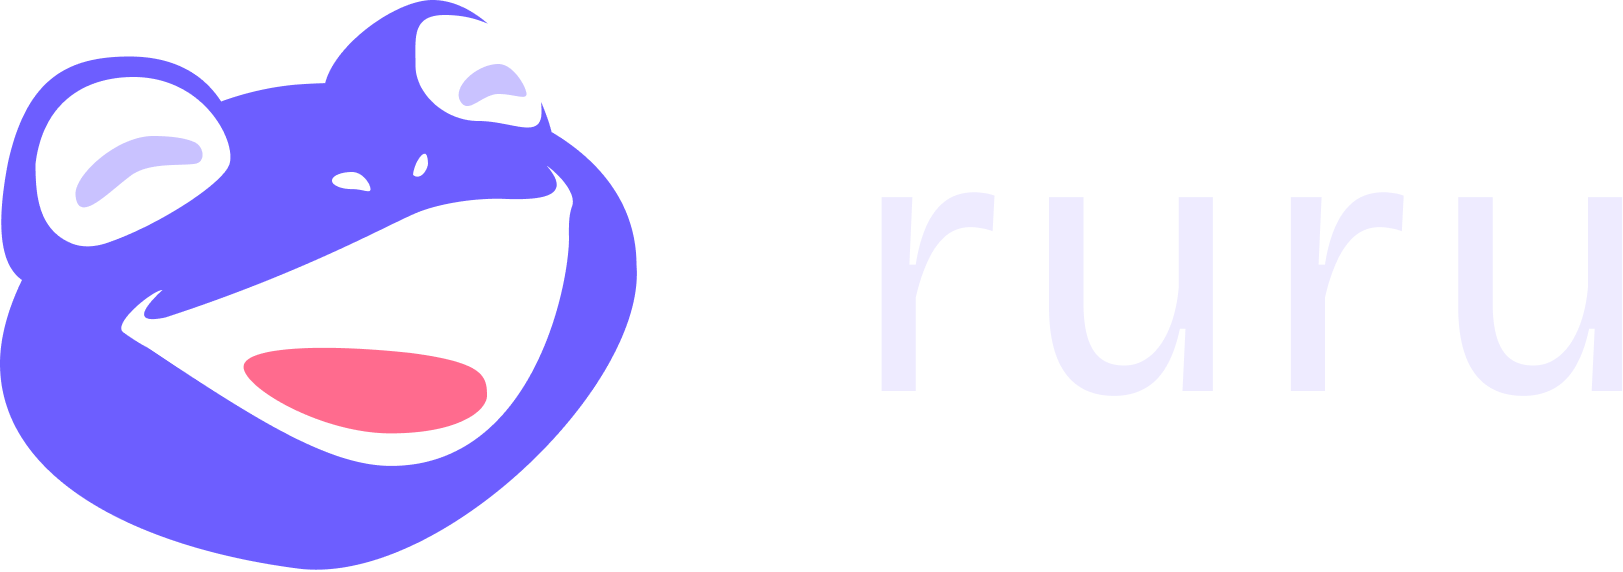
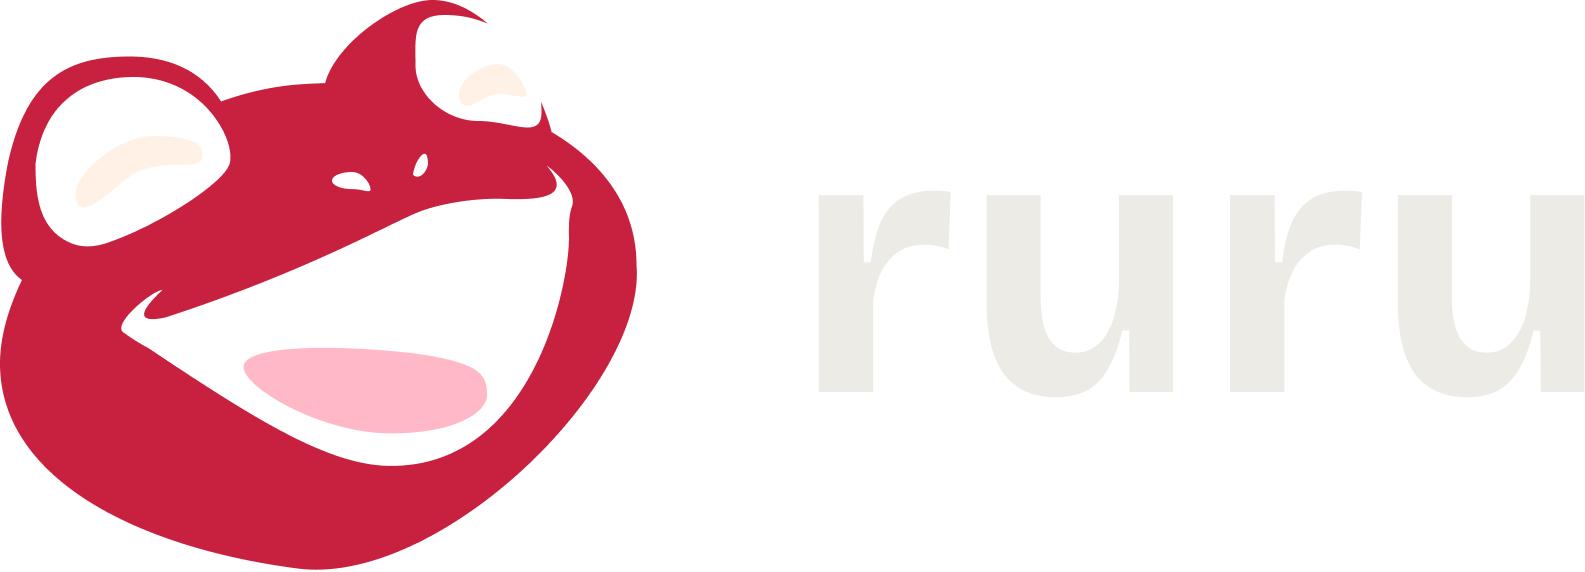
update color scheme

Changed region(s): [[0.0, 0.0, 0.4019, 1.0], [0.7729, 0.3269, 1.0, 0.7133], [0.4946, 0.3269, 0.742, 0.7133]]

diff --git a/crates/ruru-ui/src/main_window/style.rs b/crates/ruru-ui/src/main_window/style.rs
@@ -1,9 +1,9 @@
 use iced::widget::{button, checkbox, container, overlay::menu, pick_list, rule, text_input};
-use iced::{Background, Border, Shadow, Theme};
+use iced::{Background, Border, Color, Shadow, Theme};
 
 use crate::style::{
-    BACKGROUND_COLOR, BORDER_COLOR, INPUT_BACKGROUND, INPUT_BORDER_COLOR, SELECTION_COLOR,
-    TEXT_COLOR,
+    BACKGROUND_COLOR, BORDER_COLOR, INPUT_BACKGROUND, INPUT_BORDER_COLOR, SCROLLER_COLOR,
+    SELECTION_COLOR, TEXT_COLOR,
 };
 pub(super) use crate::style::{DANGER_COLOR, MUTED_COLOR};
 
@@ -15,7 +15,7 @@ pub(super) const HEADER_ACTION_ICON_SIZE: f32 = 22.0;
 pub(super) const SETTINGS_ICON_SIZE: f32 = 25.0;
 pub(super) const SIDEBAR_WIDTH: f32 = 160.0;
 pub(super) const SETTINGS_COLUMN_SPACING: f32 = 24.0;
-pub(super) const SCROLL_CONTENT_GAP: f32 = 18.0;
+pub(super) const SCROLL_CONTENT_GAP: f32 = 50.0;
 pub(super) const SECTION_PADDING: f32 = 18.0;
 pub(super) const SECTION_SPACING: f32 = 16.0;
 pub(super) const MODEL_LIST_HEIGHT: f32 = 280.0;
@@ -34,7 +34,7 @@ pub(super) fn window(_theme: &Theme) -> container::Style {
 
 pub(super) fn sidebar_rule(theme: &Theme) -> rule::Style {
     let mut style = rule::default(theme);
-    style.color.a = 0.65;
+    style.color = BORDER_COLOR;
     style
 }
 
@@ -61,7 +61,7 @@ pub(super) fn header_button(_theme: &Theme, status: button::Status) -> button::S
 
 pub(super) fn provider_card(_theme: &Theme) -> container::Style {
     container::Style {
-        background: Some(INPUT_BACKGROUND.into()),
+        background: Some(Color::from_rgb8(0x1E, 0x1E, 0x1C).into()),
         border: Border {
             color: BORDER_COLOR,
             width: 1.0,
@@ -85,9 +85,9 @@ pub(super) fn selected_section(_theme: &Theme, _status: button::Status) -> butto
 
 pub(super) fn action_button(_theme: &Theme, status: button::Status) -> button::Style {
     let background = match status {
-        button::Status::Hovered => INPUT_BORDER_COLOR,
-        button::Status::Pressed => SELECTION_COLOR,
-        button::Status::Active | button::Status::Disabled => BORDER_COLOR,
+        button::Status::Hovered | button::Status::Pressed => Color::from_rgb8(0xB0, 0x1C, 0x38),
+        button::Status::Active => Color::from_rgb8(0xC8, 0x20, 0x3F),
+        button::Status::Disabled => BORDER_COLOR,
     };
 
     button::Style {
@@ -95,7 +95,7 @@ pub(super) fn action_button(_theme: &Theme, status: button::Status) -> button::S
         text_color: if status == button::Status::Disabled {
             MUTED_COLOR
         } else {
-            TEXT_COLOR
+            Color::WHITE
         },
         border: Border {
             radius: 8.0.into(),
@@ -108,7 +108,7 @@ pub(super) fn action_button(_theme: &Theme, status: button::Status) -> button::S
 pub(super) fn add_provider_picker(_theme: &Theme, status: pick_list::Status) -> pick_list::Style {
     pick_list::Style {
         text_color: TEXT_COLOR,
-        placeholder_color: TEXT_COLOR,
+        placeholder_color: MUTED_COLOR,
         handle_color: MUTED_COLOR,
         background: match status {
             pick_list::Status::Hovered | pick_list::Status::Opened { .. } => {
@@ -159,10 +159,10 @@ pub(super) fn subtle_button(_theme: &Theme, status: button::Status) -> button::S
 
 pub(super) fn key_input(_theme: &Theme, status: text_input::Status) -> text_input::Style {
     text_input::Style {
-        background: Background::Color(BACKGROUND_COLOR),
+        background: Background::Color(INPUT_BACKGROUND),
         border: Border {
             color: if matches!(status, text_input::Status::Focused { .. }) {
-                INPUT_BORDER_COLOR
+                Color::from_rgba8(0xFF, 0x8A, 0x9E, 0.45)
             } else {
                 BORDER_COLOR
             },
@@ -170,7 +170,7 @@ pub(super) fn key_input(_theme: &Theme, status: text_input::Status) -> text_inpu
             radius: 8.0.into(),
         },
         icon: MUTED_COLOR,
-        placeholder: MUTED_COLOR,
+        placeholder: SCROLLER_COLOR,
         value: TEXT_COLOR,
         selection: SELECTION_COLOR,
     }
@@ -185,14 +185,14 @@ pub(super) fn provider_checkbox(_theme: &Theme, status: checkbox::Status) -> che
 
     checkbox::Style {
         background: if checked {
-            SELECTION_COLOR.into()
+            Color::from_rgb8(0xC8, 0x20, 0x3F).into()
         } else {
-            BACKGROUND_COLOR.into()
+            INPUT_BACKGROUND.into()
         },
-        icon_color: TEXT_COLOR,
+        icon_color: Color::WHITE,
         border: Border {
-            color: if hovered {
-                INPUT_BORDER_COLOR
+            color: if checked || hovered {
+                Color::from_rgb8(0xC8, 0x20, 0x3F)
             } else {
                 BORDER_COLOR
             },

diff --git a/crates/ruru-ui/src/overlay/style.rs b/crates/ruru-ui/src/overlay/style.rs
@@ -7,8 +7,8 @@ pub use crate::style::{
     SCROLLBAR_WIDTH, SELECTION_COLOR, TEXT_COLOR, scroll,
 };
 
-pub const MODEL_PICKER_BACKGROUND: Color = Color::from_rgb8(0x21, 0x1E, 0x2C);
-pub const MODEL_MENU_HIGHLIGHT: Color = Color::from_rgb8(0x2C, 0x27, 0x50);
+pub const MODEL_PICKER_BACKGROUND: Color = Color::from_rgb8(0x1E, 0x1E, 0x1C);
+pub const MODEL_MENU_HIGHLIGHT: Color = Color::from_rgb8(0x3D, 0x18, 0x20);
 pub const BORDER_STYLE: Border = Border {
     color: BORDER_COLOR,
     width: 1.0,
@@ -71,11 +71,11 @@ const ANSWER_FONT: Font = Font::DEFAULT;
 pub const HINT_TEXT: &str = "Or just press Enter — I’ll figure it out";
 pub const HINT_SIZE: f32 = 12.5;
 pub const HINT_SPACING: f32 = 8.0;
-pub const HINT_COLOR: Color = Color::from_rgb8(0x8C, 0x87, 0xA3);
+pub const HINT_COLOR: Color = Color::from_rgb8(0x8E, 0x8B, 0x83);
 
 pub fn input_box(_theme: &Theme, focused: bool) -> container::Style {
     let border_color = if focused {
-        Color::from_rgba8(0xA9, 0x9F, 0xFF, 0.45)
+        Color::from_rgba8(0xFF, 0x8A, 0x9E, 0.45)
     } else {
         INPUT_BORDER_COLOR
     };
@@ -102,7 +102,7 @@ pub fn input(_theme: &Theme, _status: text_input::Status) -> text_input::Style {
             radius: 0.0.into(),
         },
         icon: MUTED_COLOR,
-        placeholder: MUTED_COLOR,
+        placeholder: HINT_COLOR,
         value: TEXT_COLOR,
         selection: SELECTION_COLOR,
     }
@@ -119,7 +119,7 @@ pub fn send_button(_theme: &Theme, status: button::Status) -> button::Style {
         background,
         text_color: match status {
             button::Status::Disabled => MUTED_COLOR,
-            _ => Color::from_rgb8(0xC9, 0xC2, 0xFF),
+            _ => ACCENT_COLOR,
         },
         border: Border {
             radius: INPUT_RADIUS.into(),
@@ -169,13 +169,13 @@ pub fn model_picker(_theme: &Theme, status: pick_list::Status) -> pick_list::Sty
     let border_color = match status {
         pick_list::Status::Active => INPUT_BORDER_COLOR,
         pick_list::Status::Hovered | pick_list::Status::Opened { .. } => {
-            Color::from_rgb8(0x6C, 0x5C, 0xFF)
+            Color::from_rgb8(0xC8, 0x20, 0x3F)
         }
     };
 
     pick_list::Style {
         text_color: TEXT_COLOR,
-        placeholder_color: MUTED_COLOR,
+        placeholder_color: HINT_COLOR,
         handle_color: MUTED_COLOR,
         background: MODEL_PICKER_BACKGROUND.into(),
         border: Border {
@@ -215,6 +215,6 @@ pub fn answer_markdown() -> markdown::Style {
     style.font = ANSWER_FONT;
     style.inline_code_highlight.background = INPUT_BACKGROUND.into();
     style.inline_code_color = TEXT_COLOR;
-    style.link_color = Color::from_rgb8(0xA9, 0x9F, 0xFF);
+    style.link_color = ACCENT_COLOR;
     style
 }

diff --git a/crates/ruru-ui/src/style.rs b/crates/ruru-ui/src/style.rs
@@ -1,25 +1,25 @@
 use iced::widget::scrollable;
 use iced::{Border, Color, Theme};
 
-pub const TEXT_COLOR: Color = Color::from_rgb8(0xEE, 0xEB, 0xFF);
+pub const TEXT_COLOR: Color = Color::from_rgb8(0xED, 0xEB, 0xE6);
 
-pub const MUTED_COLOR: Color = Color::from_rgb8(0xB4, 0xAF, 0xC9);
+pub const MUTED_COLOR: Color = Color::from_rgb8(0xB3, 0xB0, 0xA8);
 
-pub const DANGER_COLOR: Color = Color::from_rgb8(0xFF, 0x7A, 0x8A);
+pub const DANGER_COLOR: Color = Color::from_rgb8(0xF0, 0x8A, 0x5D);
 
-pub const ACCENT_COLOR: Color = Color::from_rgb8(0xFF, 0x7A, 0x99);
+pub const ACCENT_COLOR: Color = Color::from_rgb8(0xFF, 0x8A, 0x9E);
 
-pub const BACKGROUND_COLOR: Color = Color::from_rgb8(0x17, 0x15, 0x1F);
+pub const BACKGROUND_COLOR: Color = Color::from_rgb8(0x15, 0x15, 0x14);
 
-pub const INPUT_BACKGROUND: Color = Color::from_rgb8(0x2A, 0x27, 0x38);
+pub const INPUT_BACKGROUND: Color = Color::from_rgb8(0x28, 0x28, 0x26);
 
-pub const INPUT_BORDER_COLOR: Color = Color::from_rgb8(0x48, 0x43, 0x5F);
+pub const INPUT_BORDER_COLOR: Color = Color::from_rgb8(0x47, 0x45, 0x3F);
 
-pub const SELECTION_COLOR: Color = Color::from_rgb8(0x2C, 0x27, 0x50);
+pub const SELECTION_COLOR: Color = Color::from_rgb8(0x3D, 0x18, 0x20);
 
-pub const SCROLLER_COLOR: Color = Color::from_rgb8(0x8C, 0x87, 0xA3);
+pub const SCROLLER_COLOR: Color = Color::from_rgb8(0x8E, 0x8B, 0x83);
 
-pub const BORDER_COLOR: Color = Color::from_rgb8(0x34, 0x30, 0x4A);
+pub const BORDER_COLOR: Color = Color::from_rgb8(0x34, 0x33, 0x2F);
 
 pub const SCROLLBAR_WIDTH: f32 = 6.0;
 

diff --git a/crates/ruru-ui/src/main_window/settings.rs b/crates/ruru-ui/src/main_window/settings.rs
@@ -197,7 +197,9 @@ impl ProviderView {
             content = content.push(text(error).color(style::DANGER_COLOR));
         }
         if self.credential_present {
-            content = content.push(rule::horizontal(1)).push(models);
+            content = content
+                .push(rule::horizontal(1).style(style::sidebar_rule))
+                .push(models);
         }
         content.into()
     }

diff --git a/crates/ruru-app/src/app/mod.rs b/crates/ruru-app/src/app/mod.rs
@@ -50,7 +50,7 @@ pub(super) fn run() -> iced::Result {
         .title("ruru")
         .style(|_state: &App, _theme: &iced::Theme| iced::theme::Style {
             background_color: iced::Color::TRANSPARENT,
-            text_color: iced::Color::BLACK,
+            text_color: iced::Color::from_rgb8(0xED, 0xEB, 0xE6),
         })
         .run()
 }

diff --git a/crates/ruru-ui/src/main_window/view.rs b/crates/ruru-ui/src/main_window/view.rs
@@ -48,7 +48,7 @@ fn header(window: &MainWindow) -> Element<'_, Input> {
         ]
         .align_y(Center)
         .width(Fill),
-        rule::horizontal(1)
+        rule::horizontal(1).style(style::sidebar_rule)
     ]
     .spacing(15)
     .into()
